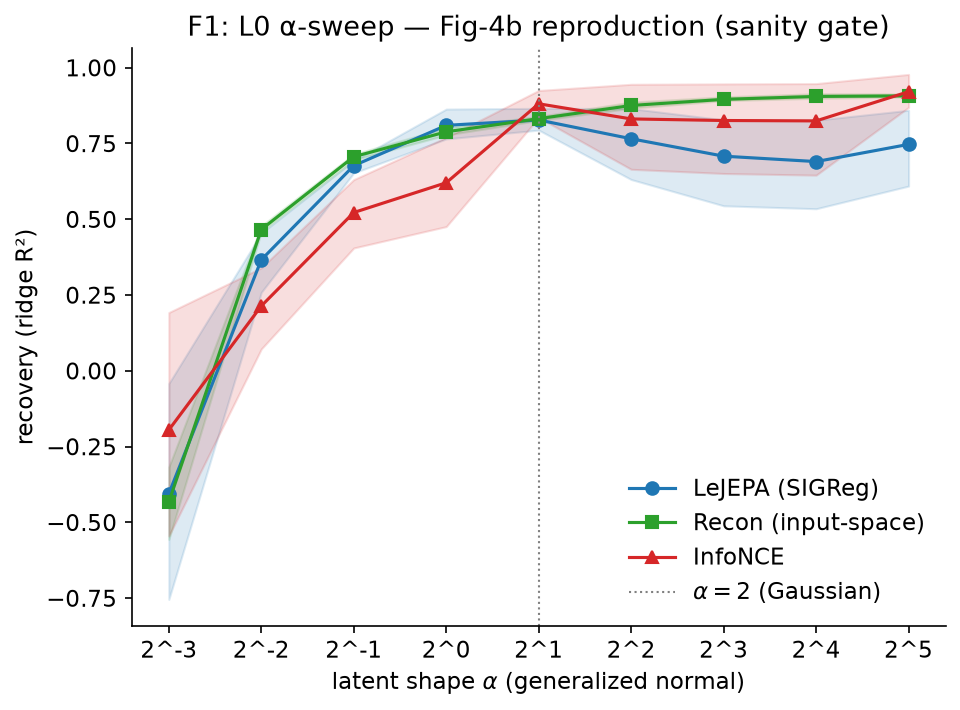
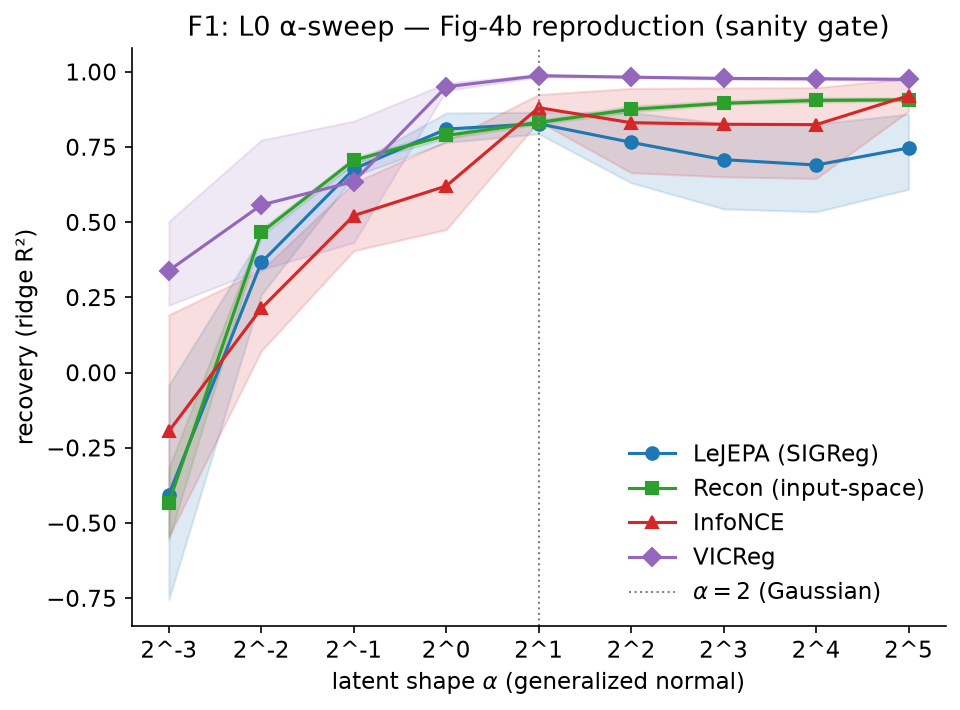
P6 FINAL: stages 5 (90 L2t) + 6 (75 VICReg) complete, 165/165 clean. H1a PASSES at S=10 both dims all models (jepa +0.487/+0.473, CI excl); fails at S<10 (honest). H1b honest null stands. VICReg: NO alpha=2 peak (plateau 0.98 through uniform — whitens not Gaussianizes, A5-predicted); discrete ladder

diff --git a/src/jepa_id/analyze.py b/src/jepa_id/analyze.py
@@ -119,30 +119,35 @@ def recovery_metric(row: dict, stage: str) -> float:
 def decoupling_index(rows: list[dict], stage: str) -> dict:
     """Within-stage z-scored prediction-vs-recovery gap per model.
 
-    For each model: d_i = z(pred_loss_i) - z(recovery_i) over the stage's cells
-    (prediction = pred_loss, recovery = schema-aware recovery score).
-    Positive d = predicts better than stage-average while recovering worse.
-    Returns per-model mean d + bootstrap CI + the per-cell values.
+    A5 rule: z(pred_loss) and z(recovery) are computed over the STAGE's cells
+    (all models pooled — otherwise each model's mean d is ~0 by construction),
+    then per-model mean of d_i = z_pred_quality_i - z_recovery_i where
+    prediction quality = -z(pred_loss) (higher = better prediction). Positive
+    d = predicts better than stage-average while recovering worse.
     """
+    cells = [r for r in rows if "error" not in r]
+    rec_all = np.array([recovery_metric(r, stage) for r in cells], dtype=float)
+    pred_all = np.array([r["metrics"].get("pred_loss", np.nan) for r in cells],
+                        dtype=float)
+    ok = ~np.isnan(rec_all) & ~np.isnan(pred_all)
+    rec_all, pred_all = rec_all[ok], pred_all[ok]
+    if len(rec_all) < 4:
+        return {}
+    # stage-wide location/scale
+    mu_r, sd_r = rec_all.mean(), rec_all.std() + 1e-12
+    mu_p, sd_p = pred_all.mean(), pred_all.std() + 1e-12
     out = {}
     for model in ("jepa", "recon", "contrastive", "vicreg"):
-        cells = [r for r in rows if r.get("model") == model]
-        if not cells:
+        idx = [i for i, r in enumerate(cells) if r.get("model") == model and ok[i]]
+        if len(idx) < 2:
             continue
-        rec = np.array([recovery_metric(r, stage) for r in cells], dtype=float)
-        pred = np.array([r["metrics"].get("pred_loss", np.nan) for r in cells], dtype=float)
-        ok = ~np.isnan(rec) & ~np.isnan(pred)
-        if ok.sum() < 2:
-            continue
-        rec, pred = rec[ok], pred[ok]
-        # z-scored (higher pred_loss = worse prediction; negate so "better
-        # prediction" is positive like recovery)
-        zp = -(pred - pred.mean()) / (pred.std() + 1e-12)
-        zr = (rec - rec.mean()) / (rec.std() + 1e-12)
+        i = np.array(idx)
+        zr = (rec_all[i] - mu_r) / sd_r
+        zp = -(pred_all[i] - mu_p) / sd_p   # higher = better prediction
         d = zp - zr
         lo, hi = bootstrap_ci(d, seed=model.__hash__() % 2**32)
         out[model] = {"mean_d": float(d.mean()), "ci": (lo, hi),
-                      "per_cell": d.tolist()}
+                      "per_cell": d.tolist(), "n": int(len(d))}
     return out
 
 # --------------------------------------------------------------------------- #

diff --git a/notes/analysis_2026-09-08.md b/notes/analysis_2026-09-08.md
@@ -11,9 +11,17 @@ Pre-registered decision rules in force (frozen + A1-A5 append-only).
 - S=3 dim=32 recon       : disc=0.932 twinR2=0.954 gap=+0.022 (CI 0.014,0.028) p=0.0059 -> **FAIL** (n=5)
 - S=3 dim=32 contrastive : disc=0.920 twinR2=0.954 gap=+0.034 (CI 0.027,0.041) p=0.0009 -> **FAIL** (n=5)
 - S=5 dim=8 jepa        : disc=0.716 twinR2=0.941 gap=+0.225 (CI 0.214,0.237) p=0.0000 -> **FAIL** (n=5)
-- S=5 dim=8 recon       : disc=0.854 twinR2=0.987 gap=+0.133 (CI 0.132,0.135) p=0.0000 -> **FAIL** (n=4)
+- S=5 dim=8 recon       : disc=0.852 twinR2=0.987 gap=+0.135 (CI 0.132,0.138) p=0.0000 -> **FAIL** (n=5)
+- S=5 dim=8 contrastive : disc=0.711 twinR2=0.989 gap=+0.278 (CI 0.216,0.333) p=0.0013 -> **FAIL** (n=5)
 - S=5 dim=32 jepa        : disc=0.465 twinR2=0.705 gap=+0.240 (CI 0.231,0.251) p=0.0000 -> **FAIL** (n=5)
-- S=5 dim=32 recon       : disc=0.786 twinR2=0.980 gap=+0.194 (CI 0.192,0.198) p=0.0001 -> **FAIL** (n=3)
+- S=5 dim=32 recon       : disc=0.784 twinR2=0.980 gap=+0.196 (CI 0.192,0.202) p=0.0000 -> **FAIL** (n=5)
+- S=5 dim=32 contrastive : disc=0.784 twinR2=0.981 gap=+0.197 (CI 0.194,0.200) p=0.0000 -> **FAIL** (n=5)
+- S=10 dim=8 jepa        : disc=0.456 twinR2=0.943 gap=+0.487 (CI 0.476,0.503) p=0.0000 -> **PASS** (n=5)
+- S=10 dim=8 recon       : disc=0.580 twinR2=0.988 gap=+0.409 (CI 0.404,0.412) p=0.0000 -> **PASS** (n=5)
+- S=10 dim=8 contrastive : disc=0.539 twinR2=0.992 gap=+0.452 (CI 0.425,0.479) p=0.0000 -> **PASS** (n=5)
+- S=10 dim=32 jepa        : disc=0.241 twinR2=0.713 gap=+0.473 (CI 0.468,0.478) p=0.0000 -> **PASS** (n=5)
+- S=10 dim=32 recon       : disc=0.447 twinR2=0.983 gap=+0.536 (CI 0.535,0.538) p=0.0000 -> **PASS** (n=5)
+- S=10 dim=32 contrastive : disc=0.479 twinR2=0.985 gap=+0.506 (CI 0.501,0.511) p=0.0000 -> **PASS** (n=5)
 
 ## H1b: L3 v2 (rule grammar) vs L2m (entropy-matched iid)
 (frozen rule: R_L3 - R_L2m > 0.2, 95% CI excluding 0)
@@ -22,10 +30,11 @@ Pre-registered decision rules in force (frozen + A1-A5 append-only).
 - contrastive : R_L3=0.805 R_L2m=0.876 delta=-0.071 (CI -0.111,-0.030) p=0.0378 -> **FAIL** (n=5)
 
 ## Decoupling index (A5: z-scored pred-loss minus z-scored recovery)
-- sweep_stage1: jepa: d=+0.000 (CI -0.094,0.111); recon: d=+0.000 (CI -0.216,0.213); contrastive: d=-0.000 (CI -0.192,0.203)
-- sweep_stage1b: jepa: d=-0.000 (CI -0.398,0.366); contrastive: d=-0.000 (CI -0.307,0.294)
-- sweep_stage2: jepa: d=-0.000 (CI -0.360,0.350); recon: d=+0.000 (CI -0.156,0.128); contrastive: d=+0.000 (CI -0.204,0.198)
-- sweep_stage3: jepa: d=-0.000 (CI -0.779,0.964); recon: d=+0.000 (CI -1.388,1.126); contrastive: d=-0.000 (CI -1.185,1.497)
-- sweep_stage4: jepa: d=+0.000 (CI -0.827,0.808); recon: d=+0.000 (CI -0.791,0.851); contrastive: d=+0.000 (CI -0.890,1.050)
-- sweep_stage5: jepa: d=+0.000 (CI -0.799,0.847); recon: d=+0.000 (CI -0.146,0.135); contrastive: d=+0.000 (CI -0.878,0.805)
-- sweep_stagepilot: jepa: d=+0.000 (CI -0.411,0.471); recon: d=-0.000 (CI -0.796,0.894); contrastive: d=-0.000 (CI -0.777,0.694)
+- sweep_stage1: jepa: d=-0.290 (CI -0.526,-0.111); recon: d=+0.079 (CI -0.173,0.383); contrastive: d=+0.211 (CI -0.061,0.560)
+- sweep_stage1b: jepa: d=+1.148 (CI 0.870,1.436); contrastive: d=-1.148 (CI -1.480,-0.821)
+- sweep_stage2: jepa: d=+1.079 (CI 0.848,1.317); recon: d=+0.244 (CI 0.079,0.436); contrastive: d=-1.323 (CI -1.531,-1.097)
+- sweep_stage3: jepa: d=+1.466 (CI 0.726,2.333); recon: d=+0.458 (CI -0.211,1.127); contrastive: d=-1.924 (CI -2.472,-1.053)
+- sweep_stage4: jepa: d=-0.134 (CI -0.868,0.631); recon: d=+1.179 (CI 0.648,1.852); contrastive: d=-1.045 (CI -1.606,-0.366)
+- sweep_stage5: jepa: d=+1.438 (CI 0.989,1.890); recon: d=+0.172 (CI 0.137,0.216); contrastive: d=-1.610 (CI -2.032,-1.217)
+- sweep_stage6: vicreg: d=+0.000 (CI -0.256,0.262)
+- sweep_stagepilot: jepa: d=+0.954 (CI 0.293,1.547); recon: d=+0.411 (CI -0.224,0.960); contrastive: d=-1.365 (CI -1.852,-0.864)
